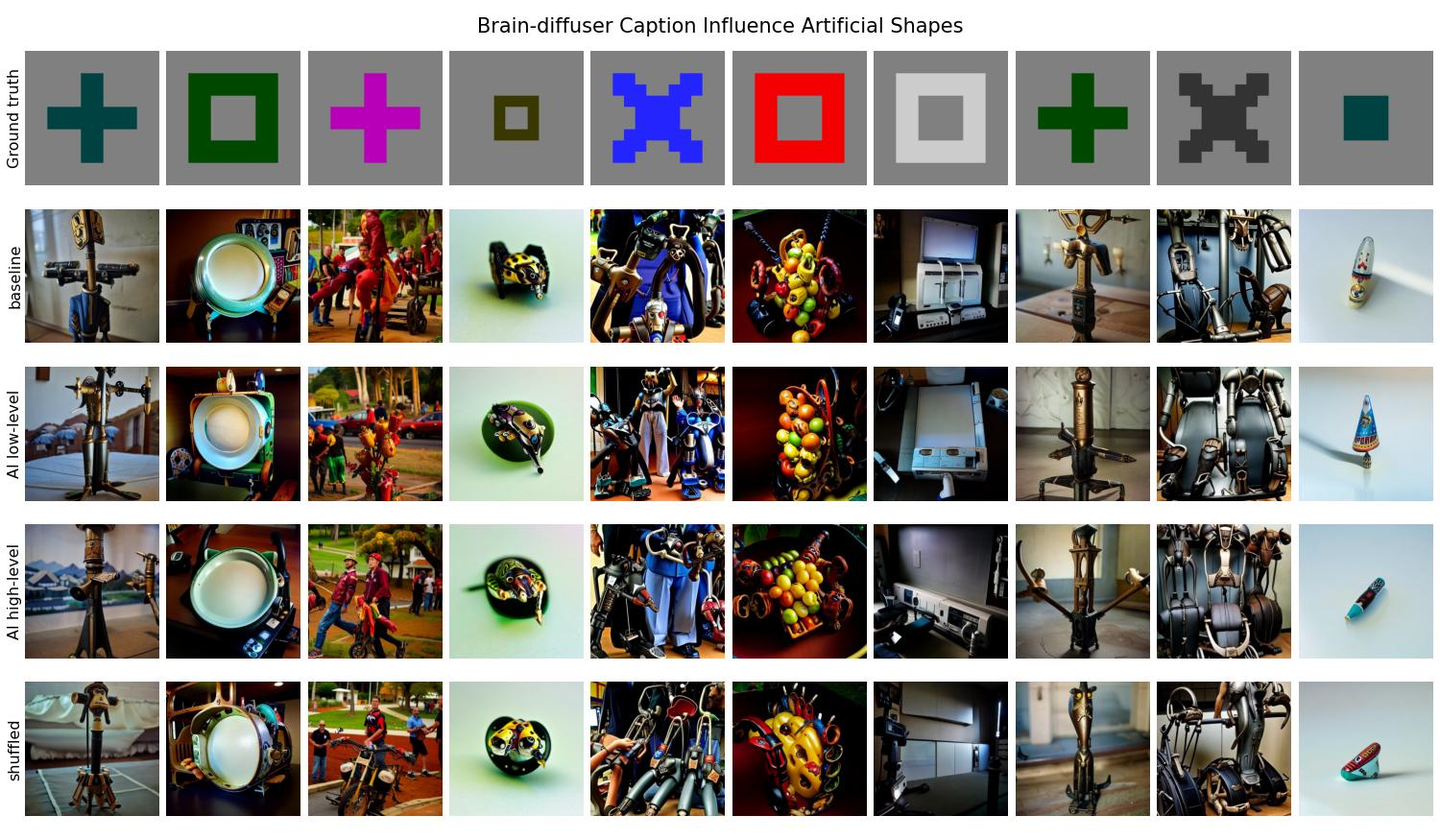
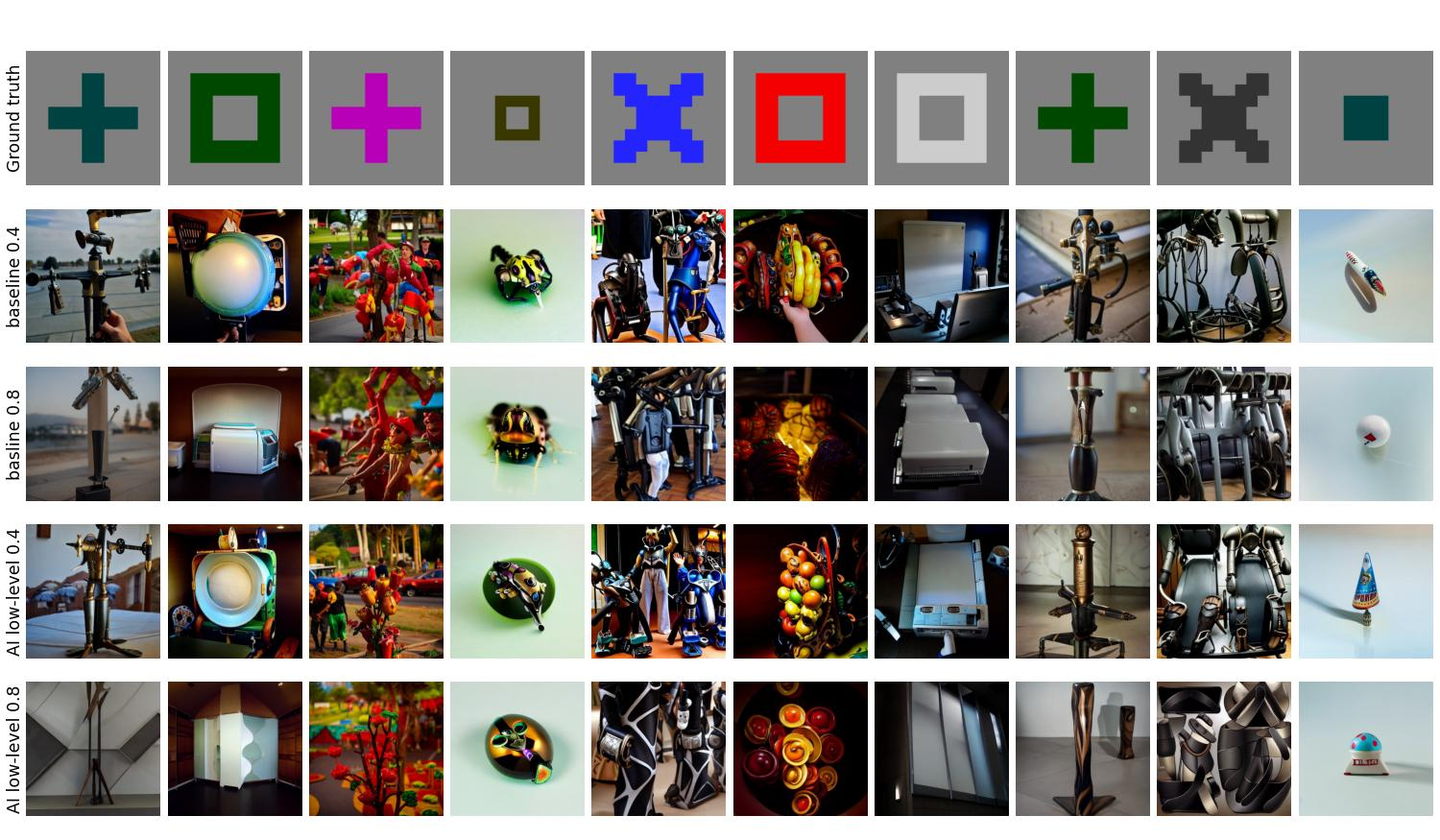
added discussion of aicap experiment

diff --git a/content/experiments/experiment_aicap.tex b/content/experiments/experiment_aicap.tex
@@ -10,9 +10,9 @@ As shown in the previous chapter, the brain diffuser in particular has problems 
 
 As described at the beginning, three different translators are trained with the brain-diffuser: for the VDVAE, the clipvision features and the cliptext features. The captions of the images that were used to gather the cliptext features were generated by using crowdsourcing (for the training data and for the natural test images) and partly manually created for this work (for the artificial shapes). It should be noted that the captions of the training images are all very short and usually focus on only a few prominent features of the images. It is possible that further details in the images may be completely ignored by the captions, or that descriptions of shapes, colours and lighting may not be considered at all.
 
-In the versatile diffusion process, which is used to generate the final images from the decoded brain activity, the decoded cliptext features are used to contextualise the diffusion process \cite{ozcelikNaturalSceneReconstruction2023,xuVersatileDiffusionText2024}. Due to the novelty of the versatile diffusion algorithm, little research has been done on how the cliptext context within this model affects the output images. However, diffusion-based image reconstruction algorithms that generate images from a prompt have been around for much longer\cite{rombachHighResolutionImageSynthesis2022,sahariaPhotorealisticTexttoimageDiffusion2022}, so we can at least refer to the research that examines the prompts used to control the diffusion-based models. In our model, the prompts used in the further diffusion process cannot be directly influenced, but the way in which the cliptext features that the translator reads from the brain activity are generated can be controlled by adapting the captions of the training data. It is therefore worth investigating how the diffusion process can be controlled with different prompts to better understand how our reconstruction can be improved. 
+In the versatile diffusion process, which is used to generate the final images from the decoded brain activity, the decoded cliptext features are used to contextualise the diffusion process\cite{ozcelikNaturalSceneReconstruction2023,xuVersatileDiffusionText2024}. Due to the novelty of the versatile diffusion algorithm, little research has been done on how the cliptext context within this model affects the output images. However, diffusion-based image reconstruction algorithms that generate images from a prompt have been around for much longer\cite{rombachHighResolutionImageSynthesis2022,sahariaPhotorealisticTexttoimageDiffusion2022}, so we can at least refer to the research that examines the prompts used to control the diffusion-based models. In our model, the prompts used in the further diffusion process cannot be directly influenced, but the way in which the cliptext features that the translator reads from the brain activity are generated can be controlled by adapting the captions of the training data. It is therefore worth investigating how the diffusion process can be controlled with different prompts to better understand how our reconstruction can be improved. 
 
-The process of searching for optimal prompts to optimise the output images of diffusion is called `prompt engineering'\cite{witteveenInvestigatingPromptEngineering2022}. This process itself is very difficult to operationalise because the quality assessment of the reconstructed images is sometimes a subjective process. Sometimes people are needed to provide a qualitative assessment of the results\cite{pavlichenkoBestPromptsTexttoImage2023}. The prompts can have a very strong influence on the generated images and steer the output in a certain direction by individual subtleties such as the repetition of single words,  the inclusion of individual high-level concepts within the prompt or a focus on low-level descriptive features (such as shapes, colours and structures)\cite{witteveenInvestigatingPromptEngineering2022}. One problem with diffusion-based image generation models is that they are not very good at generating images of concepts that are underrepresented in the training data set\cite{samuelGeneratingImagesRare2024}. The insight from the previous experiment and the research by Shirakawa et. al\cite{shirakawaSpuriousReconstructionBrain2024} has shown that in our case, too, the reconstruction of the artificial shapes in particular needs improvement. It can be assumed that such unnatural images tend to be underrepresented in the training datasets of the diffusion models\cite{schuhmannLAION400MOpenDataset2021, schuhmannLAION5BOpenLargescale2022}, and that a particular challenge is therefore to improve their reconstruction. To counteract this bias, this experiment investigates how the reconstruction of artificial shapes in particular can be improved by specifically modifying the labels of the training images. 
+The process of searching for optimal prompts to optimise the output images of diffusion is called `prompt engineering'\cite{witteveenInvestigatingPromptEngineering2022}. This process itself is very difficult to operationalise because the quality assessment of the reconstructed images is sometimes a subjective process. Sometimes people are needed to provide a qualitative assessment of the results\cite{pavlichenkoBestPromptsTexttoImage2023}. The prompts can have a very strong influence on the generated images and steer the output in a certain direction by individual subtleties such as the repetition of single words,  the inclusion of individual high-level concepts within the prompt or a focus on low-level descriptive features (such as shapes, colours and structures)\cite{witteveenInvestigatingPromptEngineering2022}. One problem with diffusion-based image generation models is that they are not very good at generating images of concepts that are underrepresented in the training data set\cite{samuelGeneratingImagesRare2024}. The insight from the previous experiment and the research by Shirakawa et\ al.\cite{shirakawaSpuriousReconstructionBrain2024} has shown that in our case, too, the reconstruction of the artificial shapes in particular needs improvement. It can be assumed that such unnatural images tend to be underrepresented in the training datasets of the diffusion models\cite{schuhmannLAION400MOpenDataset2021, schuhmannLAION5BOpenLargescale2022}, and that a particular challenge is therefore to improve their reconstruction. To counteract this bias, this experiment investigates how the reconstruction of artificial shapes in particular can be improved by specifically modifying the labels of the training images. 
 
 % - Auch wenn wir nicht direkt die prompts beeinflussen können, die am Ende rauskommen, sondern nur die cliptext embeddings, können wir indirekt steuern, wie diese aussehen mit den trainingsprompts
 % - Überleitung vom Dropout Kapitel
@@ -44,7 +44,7 @@ To further investigate the performance of the Brain Diffuser algorithm, the infl
     \item \textbf{low-level}: Describe the visual contents of this picture without using the word representing its direct category or semantic meaning as much as possible. Instead, focus on the colors, shapes, and textures with their relative positions in the image. Do not interpret the scene just describe what is actually visible. Make sure the output doesn't exceed 25 tokens.
 \end{itemize}
 
-The number of desired tokens per generated caption can only be specified implicitly via the prompt, without cutting off a caption in the middle. Accordingly, the number of tokens actually generated varies slightly. Captions longer than 35 tokens were excluded and the prompt was repeated until a corresponding caption shorter than 35 tokens was found. On average, 30.81 tokens (std = 2.8) were generated for the low-level captions and 22.84 (std = 3.17) for the high-level captions. The higher length of the low-level captions can be explained by the fact that semantic concepts, which can usually bundle many low-level properties (e.g. `dog' vs. `creature with four legs, fur and snout'), have to be avoided. Figure~\ref{fig:aicap_caption_samples} compares the high-level and low-level captions for two images from the training dataset with the human-generated captions. It can be seen that the low-level captions do indeed largely avoid semantic descriptions and tend to describe colours, shapes and textures. The high-level captions are comparatively similar to the human-generated captions and refer to semantic concepts (e.g.\ raccoon or can).
+The number of desired tokens per generated caption can only be specified implicitly via the prompt, without cutting off a caption in the middle. Accordingly, the number of tokens actually generated varies slightly. Captions longer than 35 tokens were excluded and the prompt was repeated until a corresponding caption shorter than 35 tokens was found. On average, 30.81 tokens (std = 2.8) were generated for the low-level captions and 22.84 (std = 3.17) for the high-level captions. The higher length of the low-level captions can be explained by the fact that semantic concepts, which can usually bundle many low-level properties (e.g.\ `dog' vs.\ `creature with four legs, fur and snout'), have to be avoided. Figure~\ref{fig:aicap_caption_samples} compares the high-level and low-level captions for two images from the training dataset with the human-generated captions. It can be seen that the low-level captions do indeed largely avoid semantic descriptions and tend to describe colours, shapes and textures. The high-level captions are comparatively similar to the human-generated captions and refer to semantic concepts (e.g.\ raccoon or can).
 
 \begin{figure}[ht]
     \centering
@@ -91,40 +91,54 @@ As before with the Translator, the results of the reconstruction of the artifici
     \caption{Reconstruction Artificial Images with different captions}\label{fig:aicap_reconstruction_art_both_mixings}
 \end{figure}
 
+\begin{figure}[ht]
+    \centering
+    \includegraphics[width=1\textwidth]{plots/aicap_qual_test.JPEG}
+    \caption{Qualitative Results for the low-level AI captions on Natural Test Images}\label{fig:aicap_qual_test}
+\end{figure}
 
-% \begin{figure}[ht]
-%     \centering
-%     \includegraphics[width=0.6\textwidth]{plots/aicap_qual_test.JPEG}
-%     \caption{AI-cap Reconstructions Natural Test Images}\label{fig:aicap_qual_test}
-% \end{figure}
+A qualitative comparison of the results with the low-level Ai generated captions with the baseline human captions for both mixing levels 0.4 and 0.8 can be seen in figure~\ref{fig:aicap_qual_test} for the natural test images and in figure~\ref{fig:aicap_qual_art} for the Artificial Shapes. The natural test images show that the images with higher mixing tend to be less detailed and less sharp (e.g.\ the llama or the killer whale). This suggests that higher levels of mixing are associated with poorer performance because the details of the objects are not as well represented. The differences between the 0.4 mixing baseline and the 0.4 mixing AI generated captions are more difficult to see. In the image with the snowmobile or the llama, it looks as if the low-level captions reduce the semantic meaning in the reconstructed images (the llama looks less like an animal, the snowmobile cannot be clearly identified as a vehicle). The effects that reduce performance for the natural test images have exactly the opposite effect for the artificial shapes in Figure~\ref{fig:aicap_qual_art}. Again, we see that the images with higher mixing are less detailed (e.g.\ in the purple cross where distinct people could be identified at low mixing and only shapes with high mixing). As with the natural test images, it can be observed that it is more difficult to find semantic meanings for the generated images in the reconstructions with the low-level AI captions (for example, in the case of the blue-grey cross, a hand can still be seen in the baseline and a landscape in the background; in the case of the reconstructions with the AI captions, it is more difficult to find semantic concepts for the reconstruction). In summary, the combination of reduced detail with higher mixing and the reduced semantic content of the images with the low-level AI captions results in better reconstruction of the artificial shapes in contrast to the baseline.Since the high-level captions from the AI yielded very similar results than the baseline captions (because the captions itself were very similar), there are not visible differences in the reconstructed images. A qualitative comparison can be found in the Appendix in figure~\ref{fig:aicap_qual_art_highlevel_appendix} for the natural test images and in figure~\ref{fig:aicap_qual_test_highlevel_appendix} for the artificial shapes.
 
-% \begin{figure}[ht]
-%     \centering
-%     \includegraphics[width=0.6\textwidth]{plots/aicap_qual_art.JPEG}
-%     \caption{AI-cap Reconstructions Artificial Shapes}\label{fig:aicap_qual_art}
-% \end{figure}
+
+\begin{figure}[ht]
+    \centering
+    \includegraphics[width=1\textwidth]{plots/aicap_qual_art.JPEG}
+    \caption{Qualitative Results for the low-level AI captions on Artificial Shapes}\label{fig:aicap_qual_art}
+\end{figure}
 
 \subsection{Discussion}
 
-It could be shown that different types of captions, which refer to different features of the image, have a heterogeneous influence on the reconstruction performance. On the one hand, this confirmed the hypothesis that captions in the training data that refer to low-level features of the images can also ensure that the artificial shapes (which themselves do not carry much high-level information) can be better reconstructed. On the other hand, the reconstruction performance for natural images (which carry a lot of semantic meaning) was not reduced,  when the labels referred to the high-level information of the training images, however it was also not improved. A reason for this could be a ceiling effect for the cliptext translator (as the results determined by the identification-accuracy are very high already in the baseline) or the fact, that the human generated captions are very similar to the AI generated high-level captions in the first place. PixelCorrelation did not prove to be a particularly good metric in this experiment, as it was able to detect an improvement in performance with increasing mixing in all cases (even with shuffled captions). The Dreamsim metric, on the other hand, best demonstrated the effect described above (low-level captions are good for artificial shapes and bad for natural test images). 
+It could be shown that different types of captions, which refer to different features of the image, have a heterogeneous influence on the reconstruction performance. On the one hand, the hypothesis was confirmed, that captions in the training data that refer to low-level features of the images can also ensure that the artificial shapes (which themselves do not carry much high-level information) can be better reconstructed. On the other hand, the reconstruction performance for natural images (which carry a lot of semantic meaning) was not reduced,  when the labels referred to the high-level information of the training images, however it was also not improved. A reason for this could be a ceiling effect for the cliptext translator (as the results determined by the identification-accuracy are very high already in the baseline) or the fact, that the human generated captions are very similar to the AI generated high-level captions in the first place. PixelCorrelation did not prove to be a particularly good metric in this experiment, as it was able to detect an improvement in performance with increasing mixing in all cases (even with shuffled captions). The Dreamsim metric, on the other hand,  demonstrated the effect described above the strongest (low-level captions are good for artificial shapes and bad for natural test images). 
 
 \begin{figure}[ht]
     \centering
     \includegraphics[width=0.8\textwidth]{plots/aicap_reconstruction_evolution_test_0.JPEG}
-    \caption{AI-cap Reconstructions Artificial Shapes}\label{fig:aicap_reconstruction_evolution_test_0}
+    \caption{Qualitative influence of different mixing ratios}\label{fig:aicap_reconstruction_evolution_test_0}
 \end{figure}
 
-For the natural test images and the artificial images, contrary effects were found as to whether increased mixing degrades (natural images) or improves (artificial shapes) the reconstruction performance. In order to identify the reason for this, a further analysis focused on the mixing parameter was conducted. Figure~\ref{fig:aicap_reconstruction_evolution_test_0} (and in the appendix in Figure~\ref{fig:aicap_reconstruction_evolution_art_0}) shows reconstructed images with increasing mixing ratios. In addition to the human and shuffled captions, the true features (i.e.\ the extracted clip text features of the images) are also used. It can be seen that as the mixing ratio increases, there is less detail in the image and the result becomes more blurred. This could be the explanation for the fact that the reconstruction performance (measured with dreamsim) for the natural test images decreases as the mixing ratio increases: because there is less detail in the reconstructed images, the naturalness (TODO quote) of the images decreases and they are less reminiscent of photorealistic images (the effect of the decreasing performance is shown quantitatively in Figure~\ref{fig:aicap_reconstruction_quant_evolution_test} in the appendix). This could also be the reason why the performance for the artificial images generally increases as the mixing ratio increases: because there is less (hallucinated) detail in the reconstructed images, the similarity to the low-detail artificial images increases (the increasing performance for the artificial images is shown in a quantitative manner Figure~\ref{fig:aicap_reconstruction_quant_evolution_art} in the appendix).
+For the natural test images and the artificial images, contrary effects were found as to whether increased mixing degrades (natural images) or improves (artificial shapes) the reconstruction performance. In order to identify the reason for this, a further analysis focused on the mixing parameter was conducted. Figure~\ref{fig:aicap_reconstruction_evolution_test_0} (and in the appendix in Figure~\ref{fig:aicap_reconstruction_evolution_art_0}) shows reconstructed images with increasing mixing ratios. In addition to the human and shuffled captions, the true features (i.e.\ the extracted clip text features of the images) are also used. It can be seen that as the mixing ratio increases, there is less detail in the image and the result becomes more blurred. This could be an explanation for the fact that the reconstruction performance (measured with dreamsim) for the natural test images decreases as the mixing ratio increases: because there is less detail in the reconstructed images, they are less reminiscent of photorealistic images (the effect of the decreasing performance is shown quantitatively in Figure~\ref{fig:aicap_reconstruction_quant_evolution_test} in the appendix). This could also be the reason why the performance for the artificial images generally increases as the mixing ratio increases: because there is less (hallucinated) detail in the reconstructed images, the similarity to the low-detail artificial images increases (the increasing performance for the artificial images is shown in a quantitative manner Figure~\ref{fig:aicap_reconstruction_quant_evolution_art} in the appendix). Also it's worthhile to note, that the semantic value of the images could not be increased for the high-level captions with increased mixing, even though these captions should have a focus on the semantic content of an image. Thus one an conclude, that using the cliptext features to increase the semantic value of the images will not be enough by itself.
+
+To further investigate the influence of captions on reconstruction performance in the brain diffuser, further insights could be drawn from research on prompt engineering. The prompts used in this work (high-level and low-level) to instruct chatgpt how to create the image captions were purely subjectively formulated. Instead, an optimisation such as that used by Wen et al.\cite{wenHardPromptsMade2023} could be used to further tune the captioning to better highlight certain features in the input images. It would also not be necessary to use chatGPT as the method for creating the captions, other image captioning methods could be used instead. For example, a clipvision encoder could be used to generate initial embeddings of the training data, which could then be adapted using prompt engineering tools to highlight certain features of the image. These in turn could be converted into human readable text (`hard prompts')\cite{wenHardPromptsMade2023}. Methods such as PromptCap\cite{Hu_2023_ICCV} could be used to control the caption generation process to focus on particular features in an image, so that either semantic concepts or low-level features could be given more weight. This approach could also be used to systematically investigate which types of features are better or worse predicted by brain activity. 
+
+In addition, it would be possible within the versatile diffusion algorithm\cite{xuVersatileDiffusionText2024} to provide multiple contextualisation with different caption types, so that both high-level and low-level features could be taken into account. However, it would be particularly important to investigate whether the addition of one would not in turn affect the other part of the reconstruction. In summary, the results of this experiment show that the reconstruction of images can be significantly influenced by changing the captions, but that this is particularly possible by strongly mixing the cliptext features in the versatile diffusion process. The side effect of this is that the naturalness of the images is generally reduced. 
+
+% Outlook:
+% - die Prompts direkt mit chatgpt zu generieren muss nicht die einzige sein, wie man den approach nutzen kann
+    % - Es könnte noch mehr prompt-engineering betrieben werden um herauszufinden wie die rekonstruierten Bilder optimiert werden könnten
+    % - Either hard prompt or soft prompts (es müssen ja gar keine captions generiert werden, es reichen die cliptext features)
+% - Neue Methode um hard Prompts zu designen \cite{wenHardPromptsMade2023}
+    % - Unterschied zwischen hard prompts und soft prompts
+    % - Prompt Optimierung nach ChatGPT
+    % - Es könnten die Prompts noch weiter darauf optimiert werden, sich auf bestimmte Merkmale in den Bildern zu fokussieren
+    % - Sowas wie prompt cap könnte genutzt werden um noch besser darauf achten zu können, wie die prompts erstellt werden sollen \cite{Hu_2023_ICCV}
+        % - Intermediate prompt optimization technique to guide the chatgpt output
+
+% - Könnten auch die prompts komplett droppen und einen anderen diffusion approach benutzen\cite{xuPromptFreeDiffusionTaking2024,xuVersatileDiffusionText2024}
+%     - Wir brauchen gar keinen Text unbedingt. Auch bei versatile diffusion nicht, dort geht es ja insbesonere um die cliptext features. 
+%     - Context nur durch Bilder geben (weil der semantische Inhalt durch die cliptext features eh nicht besonders stark erhöht werden kann)
+%     - Man könnte also auch doppelten Context geben durch Bilder
+%     - Oder doppelten Text context
+%     - Theoretisch sind viele Contexts möglich bei dem versatile diffusion approach, mit einer weiterentwicklung könnte man so dann auch je nach image das regeneriert werden soll ganz unterschiedlichen kontext geben
 
 
-
-TODO: Überleitung dahin, dass mit den Captions der semantische Wert nicht besonders erhöht werden konnte, der Peak bei 0.4 erreicht ist, mit cliptext also nicht bedeutent die semantische Abbildung erhöht. Deshalb wollen wir an den anderen Teil vom Brain-difuser ran, clipvision. 
-TODO: Add some qualitative Results for the 0.8 mixing (maybe also add 0.95 mixing) for the artificial shapes
-
-
-
-Outlook:
-- Könnten auch die prompts komplett droppen und einen anderen diffusion approach benutzen\cite{xuPromptFreeDiffusionTaking2024}
-- Neue Methode um hard Prompts zu designen \cite{wenHardPromptsMade2023}
-- Sowas wie prompt cap könnte genutzt werden um noch besser darauf achten zu können, wie die prompts erstellt werden sollen \cite{Hu_2023_ICCV}
-- Um die rare concepts zu verbessern sagen \cite{samuelGeneratingImagesRare2024} dass man sich vor allem auf den diffusion input fokussieren muss
+% TODO: Überleitung dahin, dass mit den Captions der semantische Wert nicht besonders erhöht werden konnte, der Peak bei 0.4 erreicht ist, mit cliptext also nicht bedeutent die semantische Abbildung erhöht. Deshalb wollen wir an den anderen Teil vom Brain-difuser ran, clipvision. 

diff --git a/appendixa.tex b/appendixa.tex
@@ -15,22 +15,36 @@
 \end{figure}
 
 \section{Ai Captions}
+
+\begin{figure}[ht]
+   \centering
+   \includegraphics[width=1\textwidth]{plots/aicap_qual_test_highlevel_appendix.JPEG}
+   \caption{Qualitative Results for the high-level AI captions on Natural Test Images}\label{fig:aicap_qual_test_highlevel_appendix}
+\end{figure}
+
+\begin{figure}[ht]
+   \centering
+   \includegraphics[width=1\textwidth]{plots/aicap_qual_art_highlevel_appendix.JPEG}
+   \caption{Qualitative Results for the high-level AI captions on Artificial Shapes}\label{fig:aicap_qual_art_highlevel_appendix}
+\end{figure}
+
+
 \begin{figure}[ht]
    \centering
    \includegraphics[width=1\textwidth]{plots/aicap_reconstruction_evolution_art_0.JPEG}
-   \caption{AI-cap Reconstructions Artificial Shapes}\label{fig:aicap_reconstruction_evolution_art_0}
+   \caption{Qualitative influence of different mixing ratios on Artificial Shapes}\label{fig:aicap_reconstruction_evolution_art_0}
 \end{figure}
 
 \begin{figure}[ht]
    \centering
    \includegraphics[width=1\textwidth]{plots/aicap_reconstruction_quant_evolution_test.JPEG}
-   \caption{AI-cap Reconstructions Artificial Shapes}\label{fig:aicap_reconstruction_quant_evolution_test}
+   \caption{Qualitative influence of different mixing ratios on Natural Test Images}\label{fig:aicap_reconstruction_quant_evolution_test}
 \end{figure}
 
 \begin{figure}[ht]
    \centering
    \includegraphics[width=1\textwidth]{plots/aicap_reconstruction_quant_evolution_art.JPEG}
-   \caption{AI-cap Reconstructions Artificial Shapes}\label{fig:aicap_reconstruction_quant_evolution_art}
+   \caption{Qualitative influence of different mixing ratios on Artificial Shapes}\label{fig:aicap_reconstruction_quant_evolution_art}
 \end{figure}
 
 \section{Perturbations}

diff --git a/content/04_discussion.tex b/content/04_discussion.tex
@@ -12,3 +12,11 @@ Generell:
 - Andere Image generation Algorithms (innerhalb des brain-diffuser Algorithm)
 - Andere Decoder-Algorithmen (mindeye etc.)
     - Man könnte auch komplette captions generieren lassen und nicht nur die Features wie bei unibrain \cite{maiUniBrainUnifyImage2023}
+
+
+- Um die rare concepts zu verbessern sagen \cite{samuelGeneratingImagesRare2024} dass man sich vor allem auf den diffusion input fokussieren muss
+
+
+- Andere Reconstruction Algorithmen:
+    - Theoretisch sind viele Contexts möglich bei dem versatile diffusion approach, mit einer weiterentwicklung könnte man so dann auch je nach image das regeneriert werden soll ganz unterschiedlichen kontext geben (das schreibe ich auch schon teilweise beim aicap Experiment)
+

diff --git a/content/01_Background.tex b/content/01_Background.tex
@@ -7,3 +7,10 @@
 
 
 - Versatile Diffusion \cite{xuVersatileDiffusionText2024} erklären
+
+- Wir wollen einen Bildgenerator der universal ist, also Bilder mit ganz unterschiedlichen Charakteristika rekonstruieren kann. Zum Beispiel auch unabhängig von der Naturalness. Eine Möglichkeit naturalness zu messen ist in Multimedia Features for Click Prediction of New Ads in
+
+- Modernere Bewertung zu was natural ist und was nicht in \cite{chenExploringNaturalnessAIGenerated2023}, folgt zwei verschiedenen Wegen wie der visual pathway
+
+- Bei der Diversity kann man auch darauf eingehen, dass der visual pathway zwei verschiedene Wege folgt, in 20, 31, 66 aus \cite{chenExploringNaturalnessAIGenerated2023}
+-
